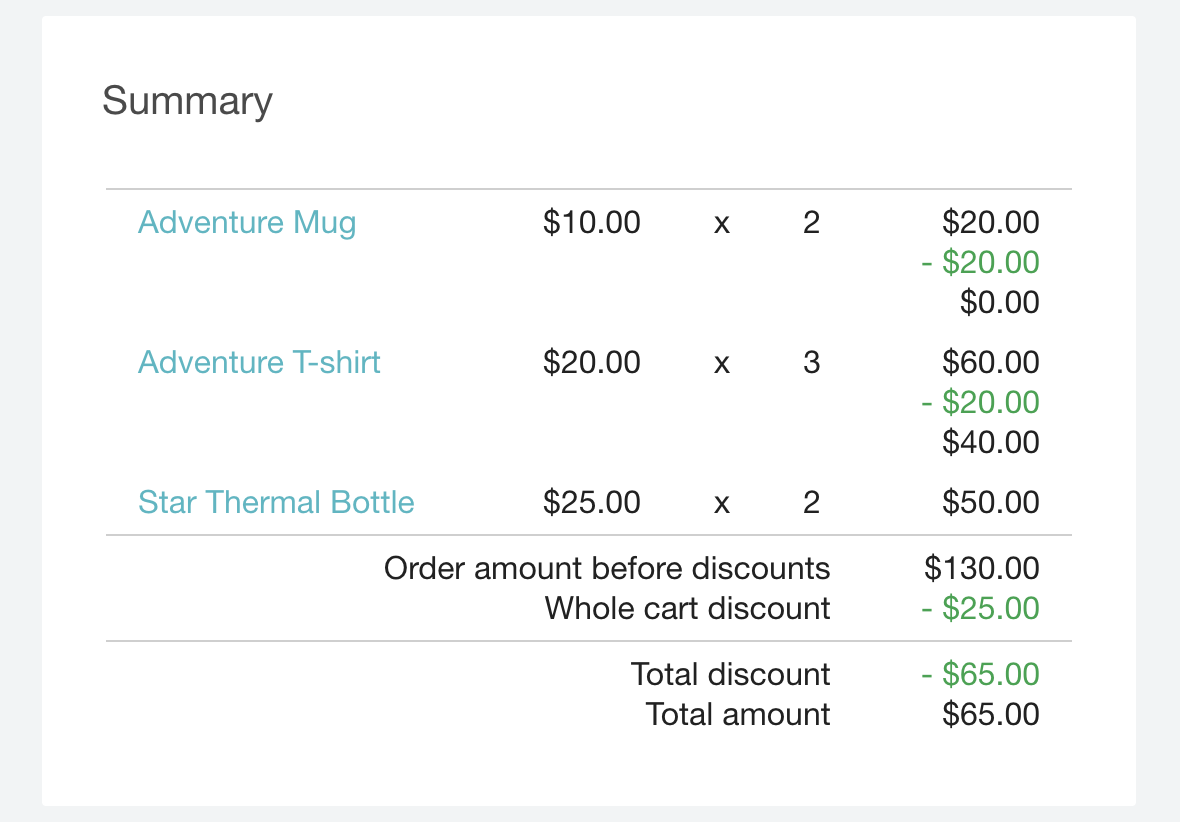
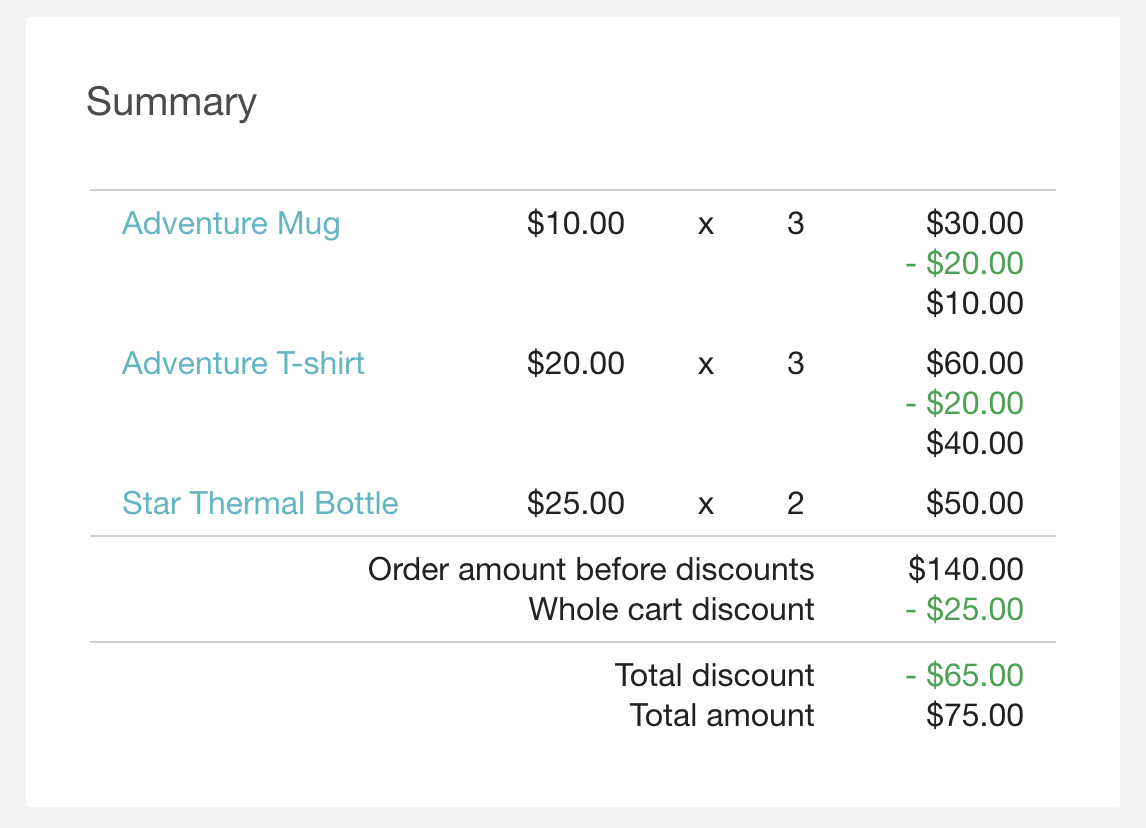
Data parsing almost ready, minor changes

diff --git a/docs/guides/development/data-parsing.md b/docs/guides/development/data-parsing.md
@@ -110,7 +110,7 @@ I'd consider only the order and/or item.
             "id": "r_0df92df74824167835",
             "customer_id": "cust_1g637SqVZnkdPNdAIZ7Ra879",
             "tracking_id": "track_Pw6r3ejnml43kIwNS4Zj09KZ67xOfLUy",
-            "date": "2023-12-12T11:27:36.224Z",
+            "date": "2024-01-01T01:11:11.224Z",
             "order": {
                 "id": "ord_iB08cMWm3sM3mWRJW17h62Pf",
                 "source_id": null,
@@ -191,7 +191,7 @@ I'd consider only the order and/or item.
                 "campaign": "Basic discount-2",
                 "campaign_id": "camp_BiFtRVJHJ8moAUe75NzspHNO",
                 "is_referral_code": false,
-                "created_at": "2023-12-06T15:34:57.264Z",
+                "created_at": "2024-01-01T01:11:11.264Z",
                 "object": "voucher"
             },
             "object": "redemption"
@@ -200,7 +200,7 @@ I'd consider only the order and/or item.
     "order": {
         "id": "ord_iB08cMWm3sM3mWRJW17h62Pf",
         "source_id": null,
-        "created_at": "2023-12-12T11:27:36.184Z",
+        "created_at": "2024-01-01T11:11:11.184Z",
         "updated_at": null,
         "status": "PAID",
         "amount": 17500,
@@ -340,7 +340,7 @@ A Star thermal bottle is added as a reference item that is not covered by any di
 "order": {
         "id": "ord_tc4yusJRqAY87ybmvhnPkJ6u",
         "source_id": null,
-        "created_at": "2023-12-13T14:29:20.533Z",
+        "created_at": "2024-01-01T11:11:11.533Z",
         "updated_at": null,
         "status": "PAID",
         "amount": 14000, // The order amount before applying any discount. This should be shown to the end-customer.
@@ -360,8 +360,8 @@ A Star thermal bottle is added as a reference item that is not covered by any di
                 "amount": 3000, // The total amount of the order item, i.e. price * quantity. This should be shown to the end-customer.
                 "discount_amount": 2000, // The sum of all item-level discounts applied to this item.
                 "applied_discount_amount": 2000, // The item-level discount applied by all applicable redeemables. In this case, it is the $20 discount. This should be shown to the end-customer.
-                "price": 1000, // Unit price of an item. This should be shown to the end-customer
-                "subtotal_amount": 1000, // Final order item amount after the applied item-level discount. In this case, the discount amount equals the product amount, making the subtotal amount equal 0. This should be shown to the end-customer.
+                "price": 1000, // Unit price of an item. This should be shown to the end-customer.
+                "subtotal_amount": 1000, // Final order item amount after the applied item-level discount. This should be shown to the end-customer.
                 "product": {
                     "id": "prod_0df14b3a6ad8f282a8",
                     "source_id": "adv-mug",
@@ -391,12 +391,12 @@ A Star thermal bottle is added as a reference item that is not covered by any di
                 }
             },
             {
-                "object": "order_item",
+                "object": "order_item", // This order item is not covered by any discount. The response shows details for a typical order item.
                 "source_id": "star-th-bottle",
                 "related_object": "product",
-                "quantity": 2,
-                "amount": 5000,
-                "price": 2500,
+                "quantity": 2, // The quantity of the particular item in the cart. This should be shown to the end-customer.
+                "amount": 5000, // The total amount of the order item, i.e. price * quantity. This should be shown to the end-customer.
+                "price": 2500, // Unit price of an item. This should be shown to the end-customer.
                 "subtotal_amount": 5000, // Here, "subtotal_amount" equals "amount" because this product is not covered by the Adventure brand discount.
                 "product": {
                     "id": "prod_0df14b7e7d8975079d",
@@ -413,7 +413,7 @@ A Star thermal bottle is added as a reference item that is not covered by any di
 
 The image below shows an example of an order summary for the purchase shown in the response above. The order summary includes the data recommended in the comments.
 
-![](https://files.readme.io/c2b6a88-guides_development_data_parsing_order_summary_01.png "An order summary showing the cart representing the example described in the response.")
+![](https://files.readme.io/84830b5-guides_development_data_parsing_order_summary_01.png "An order summary showing the cart representing the example described in the response.")
 
 ### Free items
 
@@ -427,6 +427,8 @@ In this section, two cases are covered:
 
 In this example, the cart includes an Adventure mug and one mug is added for free. A Star thermal bottle is added as a reference item that is not covered by any discounts.
 
+Check the request tab for reference.
+
 <!-- Make the terminology consistent:
 - order items
 - items
@@ -438,7 +440,7 @@ Pick one for the code comments! -->
 "order": {
         "id": "ord_OJXfKGdC2pCpKVYm2BsSTgZ0",
         "source_id": null,
-        "created_at": "2023-12-15T11:13:13.576Z",
+        "created_at": "2024-01-01T11:11:11.576Z",
         "updated_at": null,
         "status": "PAID",
         "amount": 7000, // The order amount before applying any discount, including the free item. This should be shown to the end-customer.
@@ -490,9 +492,132 @@ Pick one for the code comments! -->
         ],
     }
 ```
+```json Request
+{
+    "customer": {
+        "source_id": "test_customer_id_2"
+    },
+    "redeemables": [ // In this case, the free mug is added with a voucher.
+        {
+            "object": "voucher",
+            "id": "Always-add-prods-5"
+        }
+    ],
+    "order": { // The end-customer ordered one Adventure mug and two Start thermal bottles.
+        "items": [
+            {
+                "source_id": "adv-mug",
+                "related_object": "product",
+                "price": 1000,
+                "quantity": 1,
+                "product": {
+                    "metadata": {
+                        "brand": "Adventure"
+                    }
+                }
+            },
+            {
+                "source_id": "star-th-bottle",
+                "related_object": "product",
+                "price": 2500,
+                "quantity": 2,
+                "product": {
+                    "metadata": {
+                        "brand": "Star"
+                    }
+                }
+            }
+        ],
+        "metadata": {}
+    },
+    "metadata": {}
+}
+```
 
-The image below shows an example of an order summary for the purchase shown in the response above. The order summary includes the data recommended in the comments.
+The image below shows an example of an order summary for the purchase shown in the response above.
 
-![](../../assets/img/guides_development_data_parsing_order_summary_02.png "An order summary showing the cart representing the example described in the response.")
+![](https://files.readme.io/da280ae-guides_development_data_parsing_order_summary_02.png "An order summary showing the cart representing the example described in the response.")
 
 #### Free item not in the cart
+
+In this example, the cart does not include an Adventure mug, so one mug is added for free. A Star thermal bottle is added as a reference item that is not covered by any discounts.
+
+Check the request tab for reference.
+
+```json Response
+"order": {
+        "id": "ord_nVg612IxXYkTmoFJuk5d1nyZ",
+        "source_id": null,
+        "created_at": "2024-01-01T11:11:11.111111Z",
+        "updated_at": null,
+        "status": "PAID",
+        "amount": 5000, // The order amount before applying any discount. This should be shown to the end-customer.
+        "total_amount": 5000, // The order amount after applying all the discounts. This should be shown to the end-customer.
+        "items": [
+            {
+                "object": "order_item", // This order item is not covered by any discount. The response shows details for a typical order item.
+                "source_id": "star-th-bottle",
+                "related_object": "product",
+                "quantity": 2, // The quantity of the particular item in the cart. This should be shown to the end-customer.
+                "amount": 5000, // The total amount of the order item, i.e. price * quantity. This should be shown to the end-customer.
+                "price": 2500, // Unit price of an item. This should be shown to the end-customer.
+                "subtotal_amount": 5000, // Here, "subtotal_amount" equals "amount" because this product is not covered by any discount.
+                "product": {
+                    "id": "prod_0df14b7e7d8975079d",
+                    "source_id": "star-th-bottle",
+                    "name": "Star Thermal Bottle",
+                    "metadata": {
+                        "brand": "Star"
+                    },
+                    "price": 2500
+                }
+            },
+            {
+                "object": "order_item", // This is the item added for free.
+                "product_id": "prod_0df14b3a6ad8f282a8",
+                "quantity": 1, // The quantity of the particular item in the cart. In this case, it is the quantity of items added for free. This should be shown to the end-customer.
+                "discount_quantity": 1, // Number of dicounted items. In this case, only one free mug is added. This should be shown to the end-customer.
+                "initial_quantity": 0, // Number of the items which the end-customer placed in the cart. In this case, it is 0 because the end-customer did not have any mugs in the cart. This can be shown to the end-customer.
+                "product": {
+                    "id": "prod_0df14b3a6ad8f282a8",
+                    "source_id": "adv-mug",
+                    "name": "Adventure Mug"
+                }
+            }
+        ]
+}
+```
+```json Request
+{
+    "customer": {
+        "source_id": "test_customer_id_2"
+    },
+    "redeemables": [ // In this case, the free mug is added with a voucher.
+        {
+            "object": "voucher",
+            "id": "Always-add-prods-5"
+        }
+    ],
+    "order": { // The end-customer ordered only two Start thermal bottles. That is why there is no object for the Adventure mug in the request.
+        "items": [
+            {
+                "source_id": "star-th-bottle",
+                "related_object": "product",
+                "price": 2500,
+                "quantity": 2,
+                "product": {
+                    "metadata": {
+                        "brand": "Star"
+                    }
+                }
+            }
+        ],
+        "metadata": {}
+    },
+    "metadata": {}
+}
+```
+
+The image below shows an example of an order summary for the purchase shown in the response above.
+
+<!-- https://staging.app.voucherify.io/#/app/core/orders/ord_nVg612IxXYkTmoFJuk5d1nyZ/dashboard -->

diff --git a/docs/guides/getting_started/Introduction.md b/docs/guides/getting_started/Introduction.md
@@ -19,7 +19,7 @@ The documentation is divided into four main categories.
 
 3. **[Development](doc:welcome)** - Dive into detailed development options, including example data mapping, processes, and more. Recommended for developers and integrators.
 
-4. **[API Reference](doc:api-reference)** – Explore endpoints and attributes with request/response examples and error messages.
+4. **[API Reference](https://docs.voucherify.io/reference/introduction-1)** – Explore endpoints and attributes with request/response examples and error messages.
 
 &nbsp;
 &nbsp;
